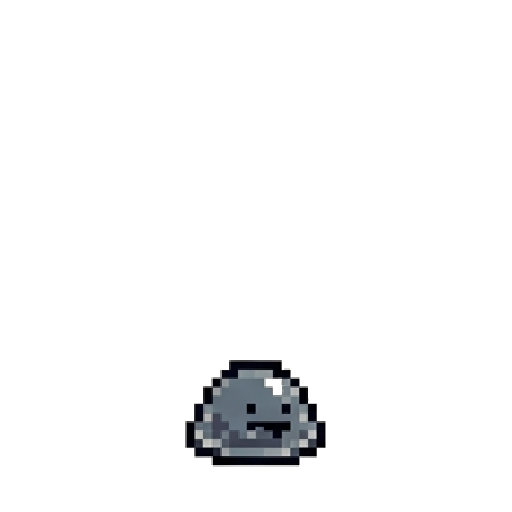
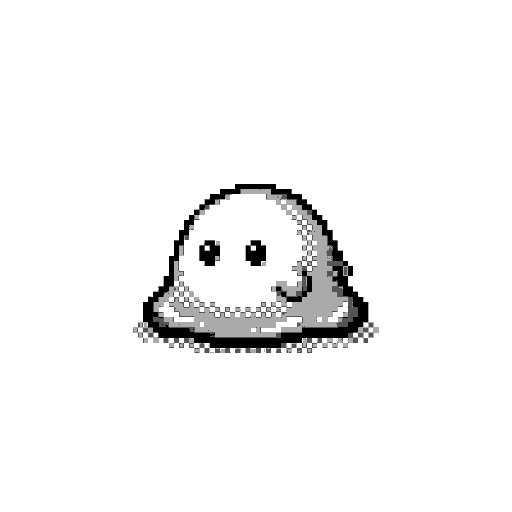
fix: load woods battle art and update tiny slime sprite

Changed region(s): [[0.25, 0.3438, 0.75, 0.9375], [0.4688, 0.4688, 0.5312, 0.5312]]

diff --git a/index.html b/index.html
@@ -4,13 +4,14 @@
   <meta charset="utf-8">
   <meta name="viewport" content="width=device-width,initial-scale=1">
   <title>Math Quest</title>
-  <link rel="stylesheet" href="css/game.css?v=51">
+  <link rel="stylesheet" href="css/game.css?v=52">
+  <link rel="preload" as="image" href="assets/backgrounds/whispering-woods-battle.png?v=52">
 </head>
 <body>
 <main class="game-shell">
   <section class="battle-panel">
     <header class="topbar">
-      <div><div class="build-row"><span id="buildVersion" class="build-version">v51</span></div><div id="worldName" class="eyebrow">WHISPERING WOODS</div><div id="battleSubtitle" class="muted">Battle 1 of 5</div></div>
+      <div><div class="build-row"><span id="buildVersion" class="build-version">v52</span></div><div id="worldName" class="eyebrow">WHISPERING WOODS</div><div id="battleSubtitle" class="muted">Battle 1 of 5</div></div>
       <div class="stats">
         <button id="adventureMapBtn" class="secondary compact-control" type="button">🧭 Adventure Map</button>
         <button id="worldSelectBtn" class="secondary compact-control" type="button">🎯 Practice Mode</button>
@@ -20,7 +21,7 @@
       </div>
     </header>
 
-    <div id="battleStage" class="battle-stage">
+    <div id="battleStage" class="battle-stage" style="background-image:linear-gradient(180deg,rgba(3,7,13,.08),rgba(3,7,13,.18)),url('assets/backgrounds/whispering-woods-battle.png?v=52');background-size:cover;background-position:center;">
       <div class="fighter">
         <div class="fighter-title">
           <b id="heroName">Knight</b>
@@ -60,7 +61,7 @@
         <div class="fighter-title enemy-title"><b id="enemyName">Tiny Slime</b></div><div id="enemyRole" class="enemy-role">Skirmisher · Low health</div>
         <div class="hp-line enemy-hp"><b><span id="enemyHp">1</span>/<span id="enemyMaxHp">1</span></b><span>❤</span></div>
         <div class="hp-track enemy-track"><div id="enemyHpBar" class="hp-fill enemy-fill"></div></div>
-        <div class="sprite-wrap enemy-wrap"><img id="enemySprite" class="sprite character-sprite" src="characterImages/tiny-slime.png" alt="Tiny Slime"><div id="enemyDamagePop" class="damage-pop hidden"></div></div>
+        <div class="sprite-wrap enemy-wrap"><img id="enemySprite" class="sprite character-sprite" src="assets/enemies/tiny-slime.png?v=52" alt="Tiny Slime"><div id="enemyDamagePop" class="damage-pop hidden"></div></div>
       </div>
 
       <div id="slashEffect" class="impact hidden">⚔</div>
@@ -273,22 +274,22 @@
 
       <button class="hero-pedestal knight-pedestal hero-choice selected" data-hero-id="knight" type="button">
         <span class="hero-slot-badge">SELECTED</span>
-        <img class="campfire-hero-art" src="assets/heroes/knight.png?v=51" alt="Knight">
+        <img class="campfire-hero-art" src="assets/heroes/knight.png?v=52" alt="Knight">
         <span class="scene-class-label knight-label">KNIGHT</span>
       </button>
 
       <button class="hero-pedestal slot-two hero-choice playable-class" data-hero-id="mage" type="button">
-        <img class="campfire-hero-art" src="assets/heroes/mage.png?v=51" alt="Mage">
+        <img class="campfire-hero-art" src="assets/heroes/mage.png?v=52" alt="Mage">
         <span class="scene-class-label">MAGE</span>
       </button>
 
       <button class="hero-pedestal slot-three hero-choice playable-class" data-hero-id="rogue" type="button">
-        <img class="campfire-hero-art" src="assets/heroes/rogue.png?v=51" alt="Rogue">
+        <img class="campfire-hero-art" src="assets/heroes/rogue.png?v=52" alt="Rogue">
         <span class="scene-class-label">ROGUE</span>
       </button>
 
       <button class="hero-pedestal slot-four hero-choice playable-class" data-hero-id="cleric" type="button">
-        <img class="campfire-hero-art" src="assets/heroes/cleric.png?v=51" alt="Cleric">
+        <img class="campfire-hero-art" src="assets/heroes/cleric.png?v=52" alt="Cleric">
         <span class="scene-class-label">CLERIC</span>
       </button>
     </div>
@@ -573,11 +574,11 @@
   </div>
 </div>
 
-<script src="js/heroes.js?v=51"></script>
-<script src="js/math.js?v=51"></script>
-<script src="js/blocks.js?v=51"></script>
-<script src="js/combat.js?v=51"></script>
-<script src="js/animations.js?v=51"></script>
-<script src="js/game.js?v=51"></script>
+<script src="js/heroes.js?v=52"></script>
+<script src="js/math.js?v=52"></script>
+<script src="js/blocks.js?v=52"></script>
+<script src="js/combat.js?v=52"></script>
+<script src="js/animations.js?v=52"></script>
+<script src="js/game.js?v=52"></script>
 </body>
 </html>

diff --git a/js/game.js b/js/game.js
@@ -2323,14 +2323,34 @@ const skillInfo = {
       worldVisuals[world.id] ||
       worldVisuals.woods;
 
+    const backgroundUrl =
+      new URL(
+        `${visual.background}?v=52`,
+        document.baseURI
+      ).href;
+
+    const foregroundUrl =
+      new URL(
+        `${visual.foreground}?v=52`,
+        document.baseURI
+      ).href;
+
+    /*
+      Set the actual battle background directly instead of relying only
+      on a custom-property URL. This prevents path-resolution/cache
+      failures from silently falling back to the dark panel.
+    */
+    battleStage.style.backgroundImage =
+      `linear-gradient(180deg,rgba(3,7,13,.08),rgba(3,7,13,.18)), url("${backgroundUrl}")`;
+
     battleStage.style.setProperty(
       "--battle-bg",
-      `url("${visual.background}")`
+      `url("${backgroundUrl}")`
     );
 
     battleStage.style.setProperty(
       "--battle-fg",
-      `url("${visual.foreground}")`
+      `url("${foregroundUrl}")`
     );
 
     battleStage.dataset.world =
@@ -2358,7 +2378,7 @@ const skillInfo = {
 
     if (battle.enemyImage) {
       $("enemySprite").src =
-        battle.enemyImage;
+        `${battle.enemyImage}?v=52`;
       $("enemySprite").alt =
         battle.enemyName;
       $("enemySprite").classList.remove(

diff --git a/css/game.css b/css/game.css
@@ -3740,7 +3740,7 @@ body{
 
 /* Illustrated battle scene */
 .battle-stage{
-  --battle-bg:url("../assets/backgrounds/whispering-woods-battle.png");
+  --battle-bg:url("../assets/backgrounds/whispering-woods-battle.png?v=52");
   --battle-fg:none;
   position:relative;
   isolation:isolate;
@@ -4473,4 +4473,20 @@ body[data-hero="cleric"]{--class-accent:#b69a64}
     max-height:62px !important;
     flex-basis:62px !important;
   }
+}
+
+
+/* v52: battle scene load safeguard */
+#battleStage{
+  background-color:#07111d;
+  background-repeat:no-repeat;
+  background-size:cover;
+  background-position:center center;
+}
+
+/* Keep e-paper enemies crisp and separated from the colorful world. */
+.enemy .character-sprite{
+  object-fit:contain;
+  object-position:center bottom;
+  image-rendering:pixelated;
 }

diff --git a/README.md b/README.md
@@ -664,3 +664,14 @@ The goal is for the dice UI itself to explain each class without requiring a lon
 - The same e-paper hero sprites are now used in battle.
 - Fixed the Knight Shield Die distortion by enforcing an explicit square aspect ratio and fixed flex basis.
 - Enemy e-paper Batch 1 art is intentionally not partially integrated yet; the game keeps one consistent enemy set until the full enemy pack is available.
+
+
+## v52 Whispering Woods scene fix
+
+- Fixed battle background loading by resolving world art against `document.baseURI` and assigning the actual `background-image` directly to the battle stage.
+- Added `?v=52` cache busting to battle backgrounds, foregrounds, and enemy sprites.
+- Replaced Tiny Slime with the new monochrome/e-paper sprite from Batch 1.
+- Updated the initial HTML Tiny Slime reference so the old sprite cannot flash before JavaScript initializes.
+
+- Added an initial inline Whispering Woods background plus preload as a fail-safe before game initialization.
+- Replaced the legacy `characterImages/tiny-slime.png` too, so even stale/old Tiny Slime references display the new e-paper sprite.
